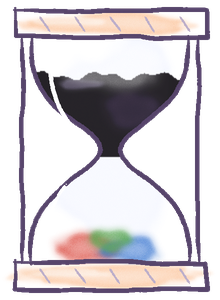
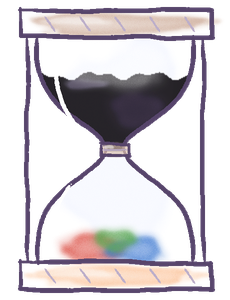
되찾은 색 타이틀 다듬기: 모래시계를 가운데서 은근히 갈라지는 두 병으로, 잉크 방울을 눈물 모양으로 가운데에서 자연스럽게, 물들기 전 Ink 는 보랏빛 펜 색, 클릭 물감은 로고·버튼 위에

diff --git a/tools/gen_title_restore.py b/tools/gen_title_restore.py
@@ -1,13 +1,16 @@
 """'되찾은 색' 그림체: 파스텔 그림체를 바탕으로, 세상과 함께 로고도 흑백에서 색을 되찾는다.
 
-- 로고: 'Ink' 가 검정 잉크로 시작하고, 번져 오는 물감이 닿으면 I·n·k 가 차례로 빨강·초록·파랑으로 물든다
-  (logo.png = 검정 잉크 바탕, logo_ink_0~2.png = 글자마다 얹는 색 층. 모두 같은 크기·같은 자리)
-- 모래시계: 줄기를 빼고, 실행 중에 검정 잉크 방울(drip_black)이 떨어져 아래 칸에서 색 방울(drip_splash_*)로 튄다
+- 로고: 'Ink' 가 'what are you do' 와 같은 보랏빛 펜 색으로 시작하고, 번져 오는 물감이 닿으면
+  I·n·k 가 차례로 빨강·초록·파랑으로 물든다 (logo.png = 바탕, logo_ink_0~2.png = 글자마다 얹는 색 층. 같은 크기·자리)
+- 모래시계: 가운데를 똑 뗄 수 있는 두 병. 위는 검정 잉크통, 아래는 컬러 잉크통 (PRD 2.1 두 잉크통).
+  목의 가는 이음 고리에서 갈라진다. 실행 중에 검정 잉크 방울(drip_black)이 떨어져
+  아래 칸에서 색 방울(drip_splash_*)로 튄다
 - 나머지(배경·물들이기·버튼·비눗방울 …)는 파스텔 그림체 이미지를 그대로 쓴다 (assets 의 FALLBACK)
 
 실행:  python tools/gen_title_restore.py
 결과:  image/title_restore/*.png
 """
+import math
 import os
 import sys
 
@@ -23,7 +26,7 @@ OUT = os.path.join(ROOT, 'image', 'title_restore')
 # I·n·k 가 되찾는 색 = 모래시계 아래 칸에 쌓인 원소 색
 TINTS = (WATERCOLOR['red'], WATERCOLOR['green'], WATERCOLOR['blue'])
 SPLASH = {'red': WATERCOLOR['red'], 'green': WATERCOLOR['green'], 'blue': WATERCOLOR['blue']}
-DARK_LINE = (40, 36, 46)
+DARK_LINE = (58, 44, 76)  # 'Ink' 바탕 테두리: 보랏빛 펜보다 한 톤 짙게
 
 
 def save(img, name):
@@ -40,25 +43,26 @@ def logo_layers():
     m_small, masks, m_ink, (x0, w_small, gap_word, widths, base) = logo_masks(ss)
     outline_of = lambda m: ImageChops.subtract(m.filter(ImageFilter.MaxFilter(13)), m)  # noqa: E731
 
-    # ---- 바탕: 흰 종이 테두리, 보랏빛 펜 'what are you do', 검정 잉크 'Ink'
+    # ---- 바탕: 흰 종이 테두리, 보랏빛 펜 'what are you do', 같은 보랏빛 펜으로 칠한 'Ink' (아직 색이 없다)
     halo = ImageChops.lighter(m_small.filter(ImageFilter.MaxFilter(15)), m_ink.filter(ImageFilter.MaxFilter(29)))
     lay(sh, ImageChops.offset(halo, 3 * ss, 5 * ss).filter(ImageFilter.GaussianBlur(5 * ss)), PLUM, 90)
     lay(sh, halo.filter(ImageFilter.GaussianBlur(1.2 * ss)), (255, 253, 250))
     lay(sh, ImageChops.offset(m_small, 3 * ss, 3 * ss), PASTEL['lavender'])
     lay(sh, m_small, PLUM)
+    lay(sh, ImageChops.offset(m_ink, 4 * ss, 4 * ss), PASTEL['lavender'])  # 'what' 과 같은 라벤더 그림자
     for m, lx, wch in masks:
         small_m = m.resize((lw, lh), Image.BILINEAR)
         fill = Sheet(lw, lh, seed=610 + int(lx))
-        fill.fill_poly([(0, 0), (lw, 0), (lw, lh), (0, lh)], INK)
-        fill.wash(lx + wch / 2, base - 90, wch * 0.4, 40, (72, 66, 82), alpha=90, layers=3, blur=6)  # 먹 농담
-        fill.wash(lx + wch * 0.35, base - 110, wch * 0.16, 16, WHITE, alpha=120, layers=2, blur=3)  # 젖은 윤기
+        fill.fill_poly([(0, 0), (lw, 0), (lw, lh), (0, lh)], PLUM)
+        fill.wash(lx + wch / 2, base - 90, wch * 0.4, 40, (112, 92, 138), alpha=110, layers=3, blur=6)  # 펜 농담
+        fill.wash(lx + wch * 0.35, base - 110, wch * 0.16, 16, WHITE, alpha=110, layers=2, blur=3)  # 윤기
         sh.masked(fill, small_m)
     lay(sh, outline_of(m_ink), DARK_LINE)
     ux0, ux1 = x0 + 8, x0 + w_small - 8
     sh.stroke(bezier((ux0, base + 22), (ux0 + 160, base + 12), (ux1 - 160, base + 34), (ux1, base + 20), 40), 4, PLUM)
     ink_x0 = x0 + w_small + gap_word
-    sh.splatter(ink_x0 + sum(widths) + 22, base - 120, 30, INK, count=6, size=(2, 6))  # 튄 먹물
-    sh.splatter(ink_x0 - 14, base - 150, 20, INK, count=4, size=(1.5, 4))
+    sh.splatter(ink_x0 + sum(widths) + 22, base - 120, 30, PLUM, count=6, size=(2, 6))  # 튄 잉크
+    sh.splatter(ink_x0 - 14, base - 150, 20, PLUM, count=4, size=(1.5, 4))
     sparkle_stroke(sh, x0 - 18, base - 86, 9, WHITE, 255, 3)
     layers = [sh]
 
@@ -93,12 +97,86 @@ def logo_layers():
     return [im.crop(box) for im in imgs], centers
 
 
+def split_bottle():
+    """가운데를 뗄 수 있는 모래시계: 위 검정 잉크통 + 아래 컬러 잉크통.
+    모양·크기는 파스텔 모래시계와 같아서 InkDrip 의 목·바닥 위치가 그대로 맞는다.
+    갈라지는 티는 은근하게: 위 뚜껑과 목 고리만 살짝 다른 나무색, 고리 가운데 연한 이음매 선 하나."""
+    bw, bh = 240, 320  # 오른쪽 뚜껑이 잘리지 않게 넉넉히
+    cx = bw / 2
+    sh = Sheet(bw, bh, seed=41)
+    sh.line = PLUM
+    top, bottom = 46, 274
+    neck = (top + bottom) / 2
+    upper = bezier((cx - 78, top), (cx - 86, top + 80), (cx - 14, neck - 30), (cx - 9, neck), 40)
+    lower = bezier((cx - 9, neck), (cx - 14, neck + 30), (cx - 86, bottom - 80), (cx - 78, bottom), 40)
+    mirror = lambda pts: [(2 * cx - x, y) for x, y in pts]  # noqa: E731
+    up_mask = pastel.poly_mask((bw, bh), upper + mirror(upper)[::-1])
+    low_mask = pastel.poly_mask((bw, bh), lower + mirror(lower)[::-1])
+    dark_wood = (214, 186, 170)  # 검정 잉크통 쪽 나무: 파스텔 나무에 회색을 살짝 섞음
+
+    # ---- 위 병: 검정 잉크 / 아래 병: 모인 색
+    glass = Sheet(bw, bh, seed=42)
+    glass.wash(cx, neck, 80, 130, (236, 240, 255), alpha=150, layers=2)
+    surf = top + 40
+    pool = [(x, surf + 3 * math.sin(x / 9) + 2 * math.sin(x / 4 + 1)) for x in range(0, bw + 1, 4)]
+    ink_fill = Sheet(bw, bh, seed=44)
+    ink_fill.fill_poly([(0, 0), (bw, 0), (bw, bh), (0, bh)], INK, 250)
+    ink_fill.wash(cx + 22, surf + 34, 30, 22, (78, 62, 102), alpha=150, layers=3, blur=4)
+    ink_fill.wash(cx - 30, surf + 8, 24, 6, (120, 112, 138), alpha=170, layers=2, blur=2)
+    pool_mask = pastel.poly_mask((bw, bh), pool + [(bw, neck + 6), (0, neck + 6)])
+    glass.masked(ink_fill, ImageChops.multiply(pool_mask, up_mask))
+    glass.wash(cx, top + 30, 60, 22, WHITE, alpha=130, layers=2, blur=4)
+    glass.wash(cx - 22, bottom - 16, 34, 16, WATERCOLOR['red'], alpha=220, layers=3)
+    glass.wash(cx + 20, bottom - 14, 32, 15, WATERCOLOR['blue'], alpha=220, layers=3)
+    glass.wash(cx, bottom - 24, 22, 12, WATERCOLOR['green'], alpha=220, layers=3)
+    sh.masked(glass, ImageChops.lighter(up_mask, low_mask))
+
+    for pts in (upper, mirror(upper), lower, mirror(lower)):
+        sh.stroke(pts, 4.4)
+    sh.stroke(bezier((cx - 58, top + 22), (cx - 66, top + 60), (cx - 40, top + 92), (cx - 26, top + 104), 20),
+              4, WHITE, 240, amp=0.6)
+    sh.stroke(bezier((cx - 58, bottom - 30), (cx - 64, bottom - 50), (cx - 52, bottom - 70), (cx - 44, bottom - 80), 14),
+              3, WHITE, 220, amp=0.6)
+
+    # ---- 뚜껑·받침: 위 병은 먹빛 나무, 아래 병은 파스텔 나무
+    for y, d, wood in ((top, -1, dark_wood), (bottom, 1, PASTEL['peach'])):
+        y0, y1 = (y - 26, y + 2) if d < 0 else (y - 2, y + 26)
+        sh.wash(cx, (y0 + y1) / 2, 94, 13, wood, alpha=240, layers=2, blur=2)
+        sh.wash(cx - 40, (y0 + y1) / 2 - 3, 40, 5, WHITE, alpha=120, layers=1, blur=2)
+        sh.stroke([(cx - 96, y0), (cx + 96, y0 + 1), (cx + 98, y1), (cx - 95, y1 - 1), (cx - 96, y0 - 2)], 4.2)
+        for k in range(5):
+            xx = cx - 70 + k * 35
+            sh.stroke([(xx, y0 + 7), (xx + 10, y1 - 7)], 1.8, pastel.SOFT_PLUM, 160)
+
+    # ---- 양옆 기둥: 이어진 채 그대로
+    for x in (cx - 88, cx + 88):
+        sh.stroke([(x, top + 2), (x + 1, bottom - 2)], 4)
+
+    # ---- 목 이음 고리: 가는 띠 하나에 연한 이음매 선만 (여기서 두 병이 갈라진다는 것만 살짝)
+    rw, rh = 15, 7
+    sh.wash(cx, neck, rw, rh, dark_wood, alpha=235, layers=2, edge=0.3, blur=0.8, wobble=0.04)
+    sh.wash(cx - 6, neck - 3, 6, 1.5, WHITE, alpha=130, layers=1, blur=0.8)
+    sh.stroke([(cx - rw, neck - rh), (cx + rw, neck - rh + 0.5), (cx + rw + 0.5, neck + rh), (cx - rw, neck + rh - 0.5),
+               (cx - rw, neck - rh - 1)], 2.8)
+    sh.stroke([(cx - rw + 3, neck), (cx + rw - 3, neck)], 1.2, pastel.SOFT_PLUM, 170, amp=0.3)  # 이음매
+    # 목(cx)이 이미지 가로 한가운데 오도록 좌우 대칭으로 자른다 (잉크 방울을 이미지 중심에 그리므로)
+    img = sh.result()
+    l_, t_, r_, b_ = img.getbbox()
+    half = int(max(cx - l_, r_ - cx)) + 4
+    return img.crop((int(cx) - half, max(0, t_ - 4), int(cx) + half, min(bh, b_ + 4)))
+
+
 def drip():
-    """떨어지는 검정 잉크 방울 (위가 뾰족한 물방울)."""
+    """떨어지는 검정 잉크 방울: 아래가 둥글고 위로 갈수록 가늘어지는 눈물 모양."""
     w, h = 16, 22
     sh = Sheet(w, h, seed=651)
-    sh.fill_poly([(w / 2, 1), (w / 2 + 5, 11), (w / 2 + 6, 15), (w / 2, 20), (w / 2 - 6, 15), (w / 2 - 5, 11)], INK)
-    sh.wash(w / 2 - 2, 13, 1.6, 2.4, WHITE, alpha=170, layers=1, blur=0.4)
+    cx, cy, r = w / 2, 15, 6.2
+    body = [(cx + math.cos(math.pi * i / 20) * r, cy + math.sin(math.pi * i / 20) * r) for i in range(21)]  # 아래 반원
+    left = bezier((cx - r, cy), (cx - r, cy - 5), (cx - 1.5, cy - 9), (cx, 1), 12)
+    right = [(2 * cx - x, y) for x, y in left[::-1]]
+    sh.fill_poly(right + body[::-1][1:] + left[1:], INK)
+    sh.fill_poly(body, INK)
+    sh.wash(cx - 2.4, cy - 1.5, 1.4, 2.2, WHITE, alpha=180, layers=1, blur=0.4)  # 윤기
     return sh.result()
 
 
@@ -118,7 +196,7 @@ def main():
     for i, im in enumerate(letters):
         save(im, f'logo_ink_{i}.png')
     print('letter centers (logo 중심 기준, 캔버스 좌표):', [(round(x), round(y)) for x, y in centers])
-    save(pastel.ink_bottle(stream=False), 'ink_bottle.png')
+    save(split_bottle(), 'ink_bottle.png')
     save(drip(), 'drip_black.png')
     for i, (name, c) in enumerate(SPLASH.items()):
         save(splash(c, 660 + i), f'drip_splash_{name}.png')

diff --git a/title_effects.py b/title_effects.py
@@ -234,19 +234,29 @@ def sparkle_burst(x, y, count=5):
 
 class InkDrip:
     """모래시계 목에서 검정 잉크 방울이 맺혔다 떨어지고, 아래 칸에 닿으면 원소 색 방울로 톡 튄다.
-    위치는 모래시계 중심 기준 (가로 0, 세로 아래로 +), scale 은 모래시계 크기 배율."""
+    거리는 모두 모래시계 중심에서 아래로 잰 값(원래 크기 px)이고, 그릴 때 scale 을 곱한다.
+    - 맺힘: 목 구멍에 위쪽이 붙은 채 커지다가, 떨어지기 직전 아래로 살짝 늘어진다
+    - 떨어짐: 처음엔 느리게, 점점 빨라지며 세로로 조금 늘어난다
+    - 튐: 방울 아래쪽이 쌓인 색에 닿는 순간 색 방울이 튄다"""
     COLORS = ('red', 'green', 'blue')
-    NECK, FLOOR = 4, 82      # 모래시계 중심에서 목·아래 칸 바닥(쌓인 색 위)까지 (원래 크기 px)
-    GROW, GRAVITY = 0.45, 900.0
+    NECK = 8        # 방울이 매달리는 목 구멍 (이음 고리 바로 아래)
+    FLOOR = 102     # 아래 칸에 쌓인 색 (튀는 자리)
+    GROW, GRAVITY = 0.7, 1300.0
     SPLASH_TIME = 0.6
-    DROP_SCALE, SPLASH_SCALE = 1.5, 1.6  # 작은 모래시계 안에서도 잘 보이게
+    DROP_SCALE, SPLASH_SCALE = 1.1, 1.6  # 방울은 목보다 넓지 않게, 튀는 색은 잘 보이게
 
     def __init__(self, phase=0.0):
         self.drop = image(folder('title'), 'drip_black.png')
         self.splash_images = [image(folder('title'), f'drip_splash_{c}.png') for c in self.COLORS]
-        self.state, self.t, self.y, self.v = 'grow', -phase, 0.0, 0.0
+        self.state, self.t, self.d, self.v = 'grow', -phase, 0.0, 0.0
         self.color = 0
         self.splash_t = None
+
+    def _size(self, k):
+        """맺히는 정도 k(0~1) 에서 방울 폭·높이 (원래 크기 px). 끝에서 아래로 늘어진다."""
+        g = 0.25 + 0.75 * (1 - (1 - k) ** 2)
+        sag = 1 + 0.3 * max(0.0, (k - 0.75) / 0.25)
+        return self.drop.w * self.DROP_SCALE * g / (sag ** 0.5), self.drop.h * self.DROP_SCALE * g * sag
 
     def update(self):
         dt = game_framework.frame_time
@@ -256,32 +266,35 @@ class InkDrip:
             if self.splash_t > self.SPLASH_TIME:
                 self.splash_t = None
         if self.state == 'grow' and self.t >= self.GROW:
-            self.state, self.y, self.v = 'fall', 0.0, 40.0
+            _, h = self._size(1.0)
+            self.state, self.d, self.v = 'fall', self.NECK - 1 + h / 2, 0.0  # 떨어지는 방울 중심
         elif self.state == 'fall':
             self.v += self.GRAVITY * dt
-            self.y += self.v * dt
-            if self.y >= self.FLOOR - self.NECK:
-                self.state, self.t = 'grow', -random.uniform(0.15, 0.5)
+            self.d += self.v * dt
+            if self.d + self.drop.h * self.DROP_SCALE * 0.45 >= self.FLOOR:
+                self.state, self.t = 'grow', -random.uniform(0.25, 0.7)
                 self.splash_t, self.color = 0.0, (self.color + 1) % len(self.COLORS)
 
-    def draw(self, x, y, scale, alpha=1.0):
-        neck_y = y - self.NECK * scale
-        ds = scale * self.DROP_SCALE
+    def draw(self, x, y, scale, alpha=1.0, angle=0.0):
+        """x, y = 모래시계 중심. angle = 모래시계 기울기(라디안, 반시계) — 방울도 같이 기울어진 축을 따른다."""
+        sin_a, cos_a = math.sin(angle), math.cos(angle)
+
+        def at(d):  # 중심에서 아래로 d 떨어진 점 (기울기 반영)
+            return x + d * scale * sin_a, y - d * scale * cos_a
+        self.drop.opacify(alpha)
         if self.state == 'grow' and self.t > 0:
-            k = self.t / self.GROW
-            w = self.drop.w * ds * (0.4 + 0.6 * k)
-            self.drop.opacify(alpha)
-            self.drop.draw(x, neck_y - self.drop.h * ds * 0.4 * k, w, self.drop.h * ds * (0.4 + 0.6 * k))
-            self.drop.opacify(1)
+            w, h = self._size(min(1.0, self.t / self.GROW))
+            self.drop.draw(*at(self.NECK - 1 + h / 2), w * scale, h * scale)
         elif self.state == 'fall':
-            stretch = 1 + min(0.5, self.v / 1600)
-            self.drop.opacify(alpha)
-            self.drop.draw(x, neck_y - self.y * scale, self.drop.w * ds / stretch, self.drop.h * ds * stretch)
-            self.drop.opacify(1)
+            stretch = 1 + min(0.35, self.v / 2400)
+            w, h = self.drop.w * self.DROP_SCALE, self.drop.h * self.DROP_SCALE
+            self.drop.draw(*at(self.d), w * scale / stretch, h * scale * stretch)
+        self.drop.opacify(1)
         if self.splash_t is not None:
             k = self.splash_t / self.SPLASH_TIME
             img = self.splash_images[self.color]
             img.opacify(alpha * (1 - k ** 2))
             s = scale * self.SPLASH_SCALE * (0.5 + 0.7 * (1 - (1 - k) ** 3))
-            img.draw(x, y - self.FLOOR * scale + img.h * s / 2 - 6 * scale, img.w * s, img.h * s)
+            sx, sy = at(self.FLOOR)
+            img.draw(sx, sy + img.h * s / 2 - 6 * scale, img.w * s, img.h * s)
             img.opacify(1)

diff --git a/title_mode.py b/title_mode.py
@@ -264,9 +264,10 @@ def draw_scene():
     pool_k = 1 - float_y / 50
     pool_y = bottle_y - bottle.h * sc / 2 - 32 * sc
     draw_with_alpha(light_pool, 0.7 * pool_k, CX, pool_y, light_pool.w * pool_k * sc, light_pool.h * sc)
-    bottle.composite_draw(math.sin(t * 0.8) * 0.035, '', CX, bottle_y + float_y, bottle.w * sc, bottle.h * sc)
+    tilt = math.sin(t * 0.8) * 0.035
+    bottle.composite_draw(tilt, '', CX, bottle_y + float_y, bottle.w * sc, bottle.h * sc)
     if drip:
-        drip.draw(CX, bottle_y + float_y, sc)
+        drip.draw(CX, bottle_y + float_y, sc, angle=tilt)
 
     ui_k = ui_alpha()
     if settings.get('light_motes') and ui_k > 0:
@@ -274,8 +275,6 @@ def draw_scene():
             b.draw(ui_k)
         for m in motes:
             m.draw(ui_k)
-    for s in splashes:
-        s.draw()
 
     # 로고: 처음에 위에서 내려앉으며 나타난다
     k = ease_out(t / INTRO)
@@ -298,6 +297,10 @@ def draw_scene():
             b.draw()
             b.normal.opacify(1)
             b.hover_image.opacify(1)
+
+    # 클릭 물감 방울은 로고·버튼보다 위에
+    for s_ in splashes:
+        s_.draw()
 
 
 def draw_hint():
